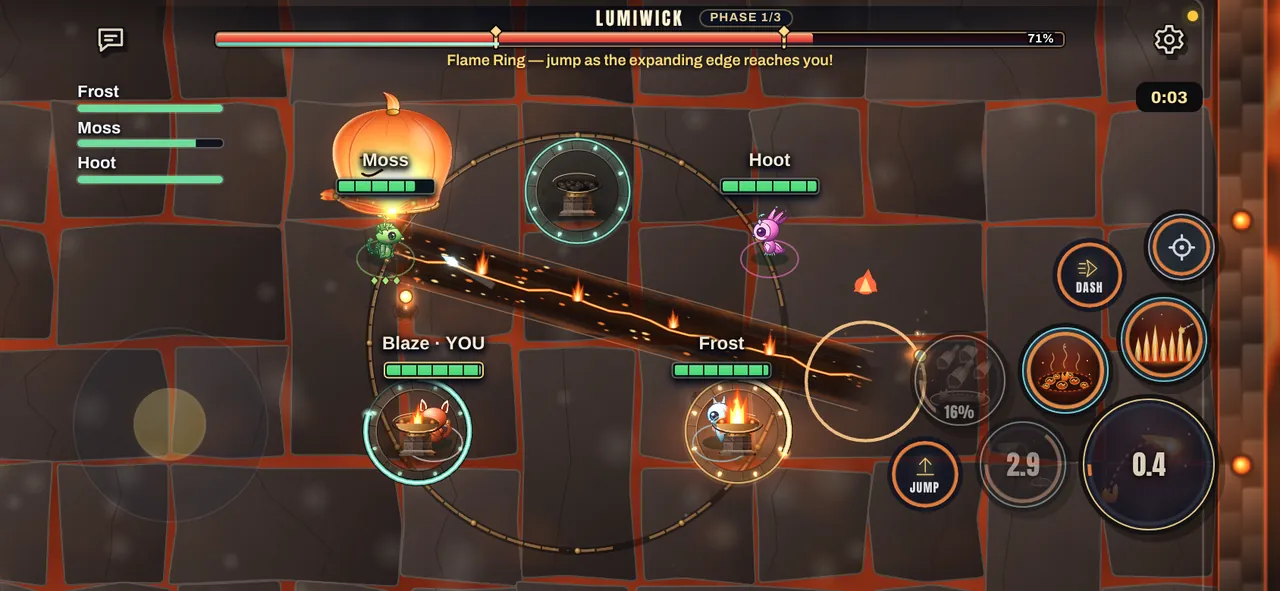
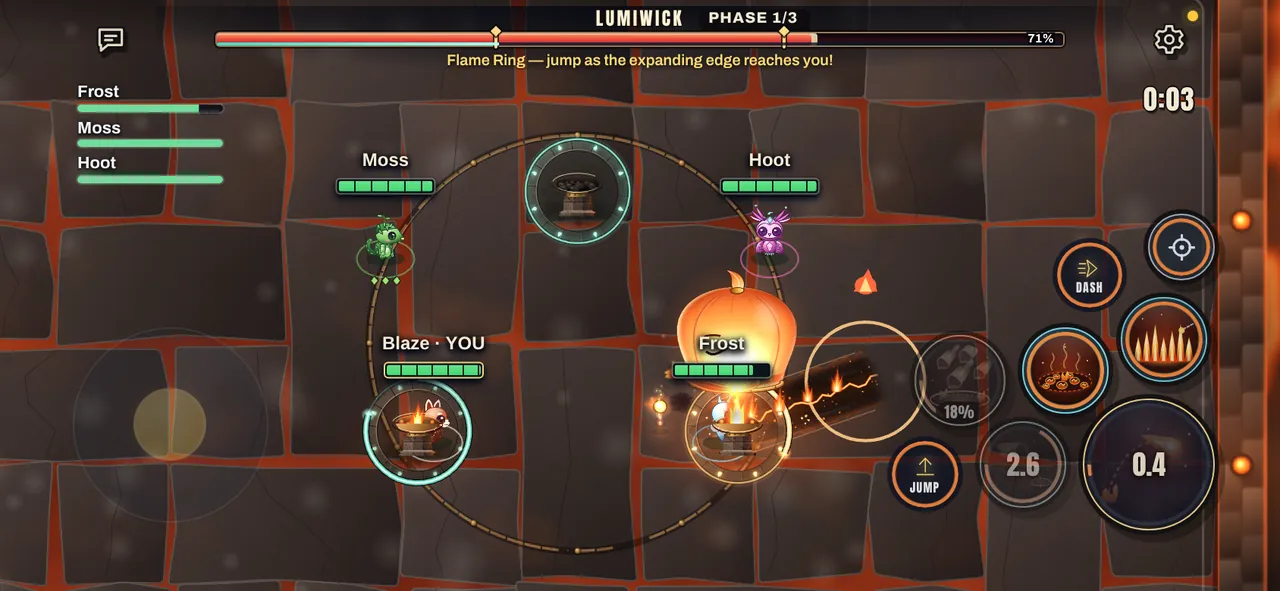
Poster: the raid and Spire clock is bare digits, the phase pill an ink label
From the UI-audit session's raid-hud-clock.patch v2 (sha256 a5374a18...).

Claude-Session: https://claude.ai/code/session_01GGURqR45YmsjL8gH5XjFkn

diff --git a/tests/visual/poster-raid-hud.spec.ts b/tests/visual/poster-raid-hud.spec.ts
@@ -1,0 +1,137 @@
+import { expect, test, type Page } from "@playwright/test";
+import { createRoom, openHub, openPlayPanel, pushUntilBattle } from "./helpers";
+import { onPlayersLook } from "./players-look";
+import { ISLAND, setInsets } from "./ui-measure";
+
+onPlayersLook();
+
+// A raid's and a Spire floor's HUD in Poster: the clock under the gear is
+// bare digits (cream Anton with an ink stroke, no pill), as the Plaza's
+// clock; the boss's phase or the floor's wave beside the name is a square
+// ink label with cream words, never under 11 px. Neither covers the gear,
+// the boss bar or the party's rows.
+const read = (page: Page) =>
+  page.evaluate(() => {
+    const q = (s: string) => document.querySelector<HTMLElement>(s);
+    const box = (e: Element | null) => {
+      if (!e) return null;
+      const r = e.getBoundingClientRect();
+      return r.height
+        ? { left: r.left, top: r.top, right: r.right, bottom: r.bottom }
+        : null;
+    };
+    // Poster's colours can compute as oklch(): read them through a canvas.
+    const cx = document.createElement("canvas").getContext("2d")!;
+    const rgba = (c: string) => {
+      cx.clearRect(0, 0, 1, 1);
+      cx.fillStyle = c;
+      cx.fillRect(0, 0, 1, 1);
+      return Array.from(cx.getImageData(0, 0, 1, 1).data);
+    };
+    const clock = q(".raid-elapsed")!;
+    const digits = q(".raid-elapsed b")!;
+    const phase = q(".raid-boss-phase")!;
+    const d = getComputedStyle(digits);
+    const p = getComputedStyle(phase);
+    return {
+      clockFill: rgba(getComputedStyle(clock).backgroundColor)[3],
+      digitsFill: rgba(d.backgroundColor)[3],
+      digitsColour: rgba(d.color).slice(0, 3),
+      digitsFont: d.fontFamily,
+      digitsStroke: d.textShadow,
+      phaseFill: rgba(p.backgroundColor),
+      phaseColour: rgba(p.color).slice(0, 3),
+      phaseSize: parseFloat(p.fontSize),
+      phaseRadius: p.borderRadius,
+      phaseCut: phase.scrollWidth > phase.clientWidth + 1,
+      clock: box(clock),
+      phase: box(phase),
+      bar: box(q(".raid-boss-health")),
+      menu: box(q("#battle-menu")),
+      hud: box(q("#raid-hud")),
+      title: box(q(".raid-boss-heading > b")),
+      titleCut: (() => {
+        const t = q(".raid-boss-heading > b")!;
+        return t.scrollWidth > t.clientWidth + 1;
+      })(),
+      party: box(q("#raid-party")),
+      width: innerWidth,
+    };
+  });
+type Box = { left: number; top: number; right: number; bottom: number } | null;
+const overlap = (a: Box, b: Box) =>
+  !!a &&
+  !!b &&
+  a.left < b.right &&
+  a.right > b.left &&
+  a.top < b.bottom &&
+  a.bottom > b.top;
+
+for (const view of [
+  { name: "568x320", width: 568, height: 320, island: false },
+  { name: "667x375", width: 667, height: 375, island: false },
+  { name: "844x390", width: 844, height: 390, island: false },
+  { name: "852x393-island", width: 852, height: 393, island: true },
+  { name: "1440x900", width: 1440, height: 900, island: false },
+])
+  test(`Poster: the raid and Spire clock is bare digits, the phase an ink label (${view.name})`, async ({
+    browser,
+  }) => {
+    test.setTimeout(120_000);
+    const phone = view.height <= 500;
+    const context = await browser.newContext({
+      viewport: { width: view.width, height: view.height },
+      isMobile: phone,
+      hasTouch: phone,
+    });
+    try {
+      const page = await context.newPage();
+      const errors = await openHub(page);
+      await page.evaluate(() =>
+        (window as any).__room("raid", { boss: "grumblecrag" }),
+      );
+      await openPlayPanel(page);
+      await createRoom(page);
+      await pushUntilBattle(page);
+      if (view.island) await setInsets(page, ISLAND);
+      for (const kind of ["raid", "spire"] as const) {
+        if (kind === "spire")
+          await page.evaluate(() => {
+            const w = window as any;
+            w.__room("spire", { stage: "playing", floor: 2, seats: 2 });
+            w.__push();
+          });
+        await expect(page.locator(".raid-elapsed b")).not.toBeEmpty();
+        await expect(page.locator(".raid-boss-phase")).not.toBeEmpty();
+        const s = await read(page);
+        const where = `${kind} at ${view.name}`;
+        // The clock: no pill, cream Anton with an ink stroke.
+        expect(s.clockFill, where).toBe(0);
+        expect(s.digitsFill, where).toBe(0);
+        expect(s.digitsColour, where).toEqual([244, 234, 213]);
+        expect(s.digitsFont, where).toContain("Anton");
+        expect(s.digitsStroke, where).not.toBe("none");
+        // The phase: a square ink label, cream words, 11 px or more, whole.
+        expect(s.phaseFill, where).toEqual([13, 13, 15, 255]);
+        expect(s.phaseColour, where).toEqual([244, 234, 213]);
+        expect(s.phaseSize, where).toBeGreaterThanOrEqual(11);
+        expect(s.phaseRadius, where).toBe("0px");
+        expect(s.phaseCut, where).toBe(false);
+        // Clear of the gear, the boss bar and the party's rows; on screen.
+        expect(overlap(s.clock, s.menu), where).toBe(false);
+        expect(overlap(s.clock, s.party), where).toBe(false);
+        expect(overlap(s.phase, s.bar), where).toBe(false);
+        // The name and its label stay inside the HUD, clear of the gear,
+        // and the name reads whole.
+        expect(overlap(s.phase, s.menu), where).toBe(false);
+        expect(overlap(s.phase, s.title), where).toBe(false);
+        expect(s.phase!.right, where).toBeLessThanOrEqual(s.hud!.right + 1);
+        expect(s.title!.left, where).toBeGreaterThanOrEqual(s.hud!.left - 1);
+        expect(s.titleCut, where).toBe(false);
+        expect(s.clock!.right, where).toBeLessThanOrEqual(s.width);
+      }
+      expect(errors).toEqual([]);
+    } finally {
+      await context.close();
+    }
+  });

diff --git a/apps/client/src/themes/poster/screens.css b/apps/client/src/themes/poster/screens.css
@@ -311,6 +311,104 @@
   :is(#battle-menu, #battle-chat):is(:focus-visible, [aria-expanded="true"]) {
   color: var(--bare-hot);
 }
+/* A raid's or a Spire floor's clock, under the gear: bare digits as the
+   Plaza's clock, cream Anton with an ink stroke drawn on the fight, no
+   pill (the old look's navy pill, then an ink one). The box keeps its
+   place under the gear; the ids outweigh the glass rule in ui/aero.css,
+   whose :is() list weighs two ids. */
+:root[data-ui="poster"]
+  body.battle-raid
+  #battle
+  #raid-hud#raid-hud#raid-hud
+  .raid-elapsed {
+  width: auto;
+  min-width: 44px;
+  height: 24px;
+  padding: 0;
+  border: 0;
+  border-radius: 0;
+  background: none;
+  box-shadow: none;
+  color: var(--bare-ink);
+}
+:root[data-ui="poster"]
+  body.battle-raid
+  #battle
+  #raid-hud#raid-hud#raid-hud
+  .raid-elapsed
+  b {
+  min-width: 0;
+  padding: 0;
+  border: 0;
+  background: none;
+  box-shadow: none;
+  font: 400 calc(18px * var(--text-scale, 1)) / 1 var(--font-display);
+  letter-spacing: 0.04em;
+  font-variant-numeric: tabular-nums;
+  text-shadow: var(--bare-word-edge);
+}
+/* The narrowest phones: the name and its labels as one centred row. In
+   the old look's grid the name sits on the bar's middle and the phase
+   hangs off its right; at 11 px a Spire floor's wave line ("Floor 2 ·
+   Wave 1/2 · 2 Echoes") then ran past the HUD into the gear at 568x320,
+   and to its edge at 667x375. As a row, the three are centred together.
+   Wider screens keep the name on the bar's middle (raid-layout.spec). */
+@media (max-width: 700px) {
+  :root[data-ui="poster"]
+    body.battle-raid
+    #battle
+    #raid-hud#raid-hud
+    .raid-boss-heading {
+    display: flex;
+    justify-content: center;
+    align-items: center;
+    gap: 8px;
+  }
+  :root[data-ui="poster"]
+    body.battle-raid
+    #battle
+    #raid-hud#raid-hud
+    .raid-boss-heading
+    > b {
+    flex: 0 1 auto;
+  }
+  :root[data-ui="poster"]
+    body.battle-raid
+    #battle
+    #raid-hud#raid-hud
+    .raid-boss-heading
+    > span {
+    flex: none;
+  }
+  :root[data-ui="poster"]
+    body.battle-raid
+    #battle
+    #raid-hud#raid-hud
+    .raid-boss-peril {
+    order: -1;
+  }
+}
+/* The boss's phase (or the Spire floor's wave) and its peril beside the
+   name: square ink labels with cream words, as Poster's kickers, in place
+   of the old look's navy pills. Never under 11 px (the small print on phones): on a phone the scaled
+   size came out at 8 px ("FLOOR 2 · WAVE 1/2 · 2 ECHOES"). */
+:root[data-ui="poster"]
+  body.battle-raid
+  #battle
+  #raid-hud#raid-hud
+  .raid-boss-heading
+  > span {
+  /* As tall as the old pill (12 px on a phone, where the compact HUD has
+     48 px in all: tests/visual/raid-layout.spec.ts). */
+  padding: 0 6px;
+  border: 0;
+  border-radius: 0;
+  background: var(--ink);
+  box-shadow: 2px 2px 0 rgba(0, 0, 0, 0.45);
+  color: var(--paper);
+  font: 800 max(11px, calc(11px * var(--text-scale, 1))) / 12px var(--font-body);
+  letter-spacing: 0.06em;
+}
 :root[data-ui="poster"] .touch-buttons > button {
   box-shadow:
     0 0 0 3px var(--ink),

diff --git a/docs/ui-themes.md b/docs/ui-themes.md
@@ -219,8 +219,11 @@ game was yellow):
     its block version. Its word (if it has one) is cream with an ink
     stroke, and it turns gold under a finger or while it is open. Today:
     the battle's chat and gear, the Plaza's HUD (Map, Gifts, Album, Today,
-    the clock, the fishing count), the top bar's chat and gear, and the ‹ ›
-    beside the Lobby fighter and on the Fighters stage.
+    the clock, the fishing count), the top bar's chat and gear, the ‹ ›
+    beside the Lobby fighter and on the Fighters stage, and a raid's or a
+    Spire floor's clock under the gear (cream Anton digits with the ink
+    stroke, no pill). Beside the boss's name, its phase (or the floor's
+    wave) is a square ink label with cream words, never under 11 px.
   - **One recipe** (`tokens.css`): `--bare-ink` (cream), `--bare-hot`
     (gold), `--bare-icon-edge` (the outline, a `filter` for an icon),
     `--bare-word-edge` (the same as a `text-shadow` for words) and
